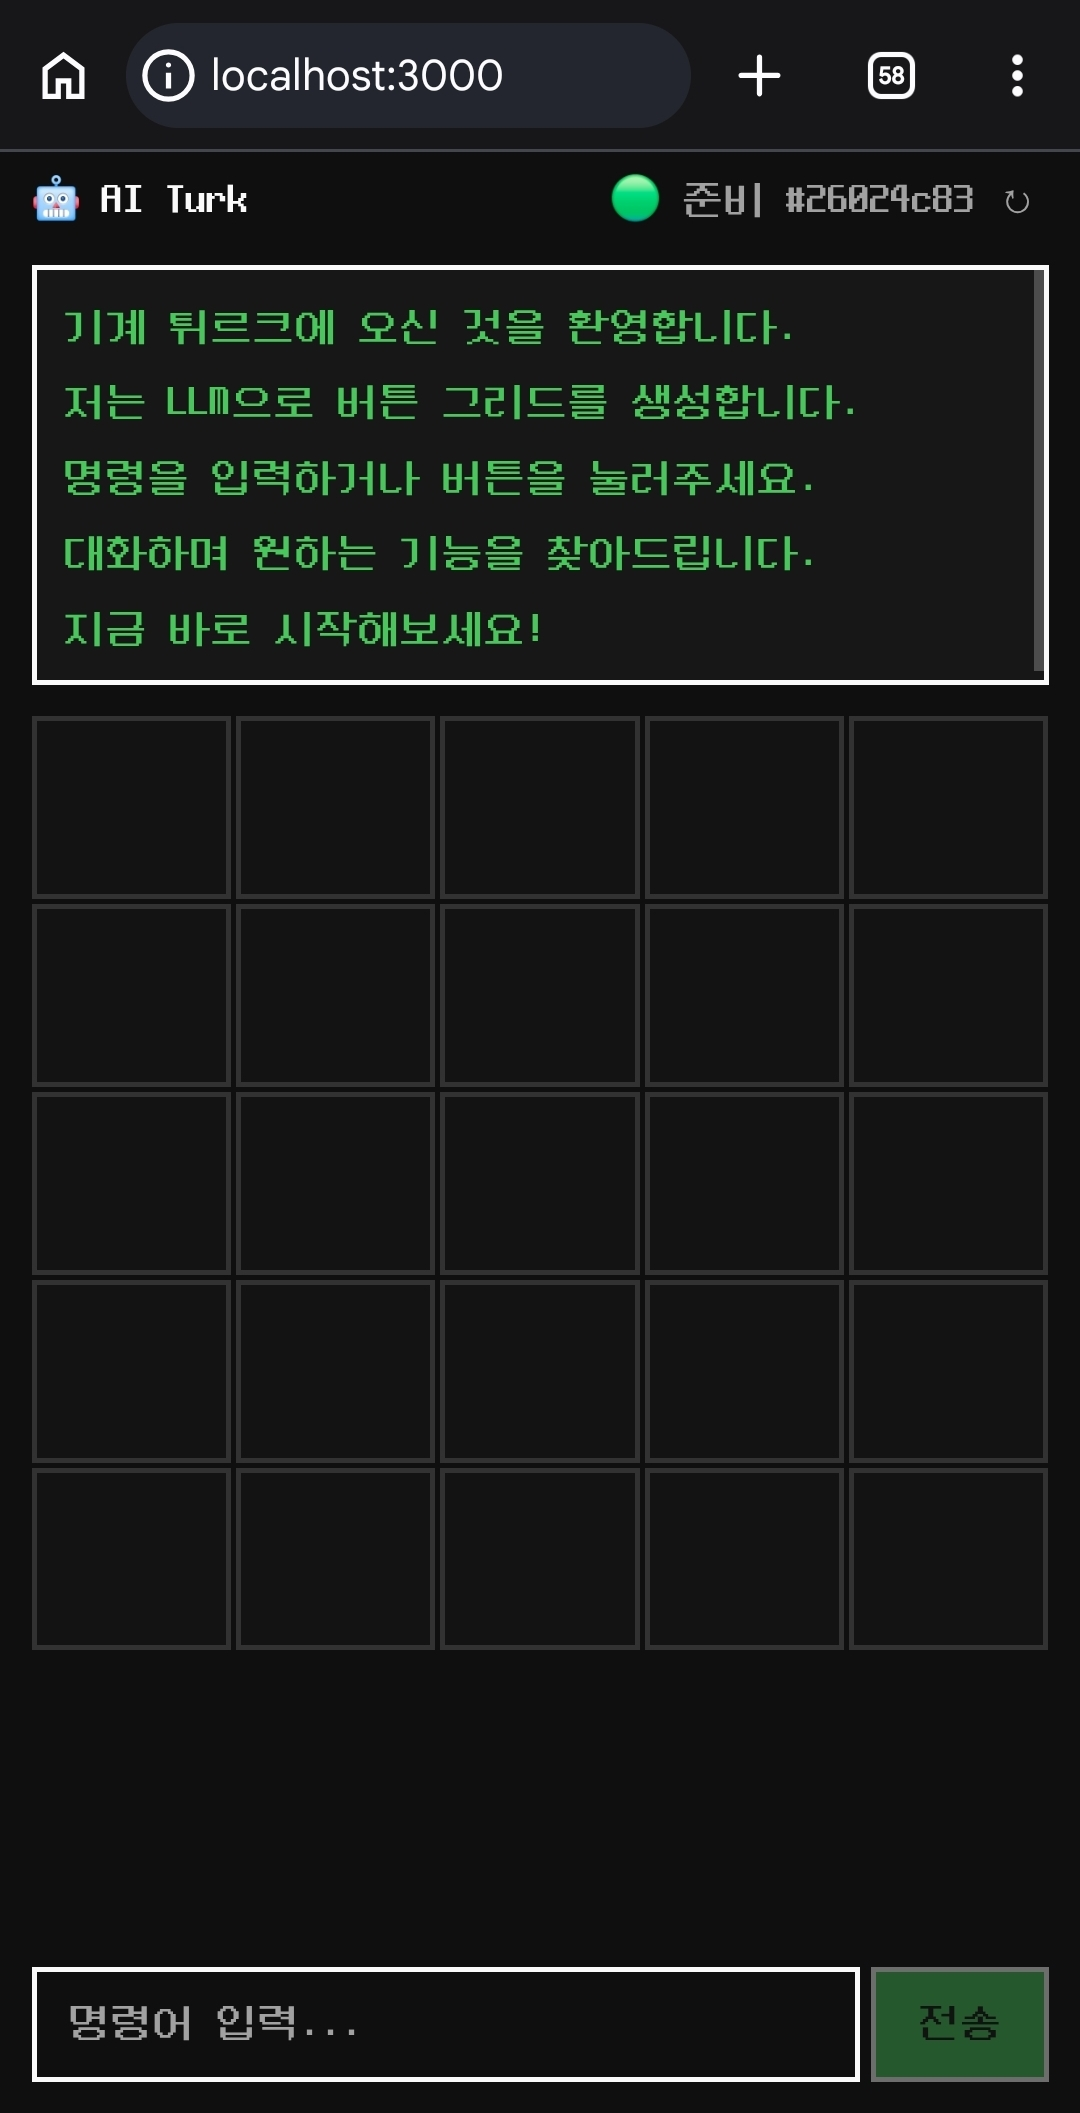
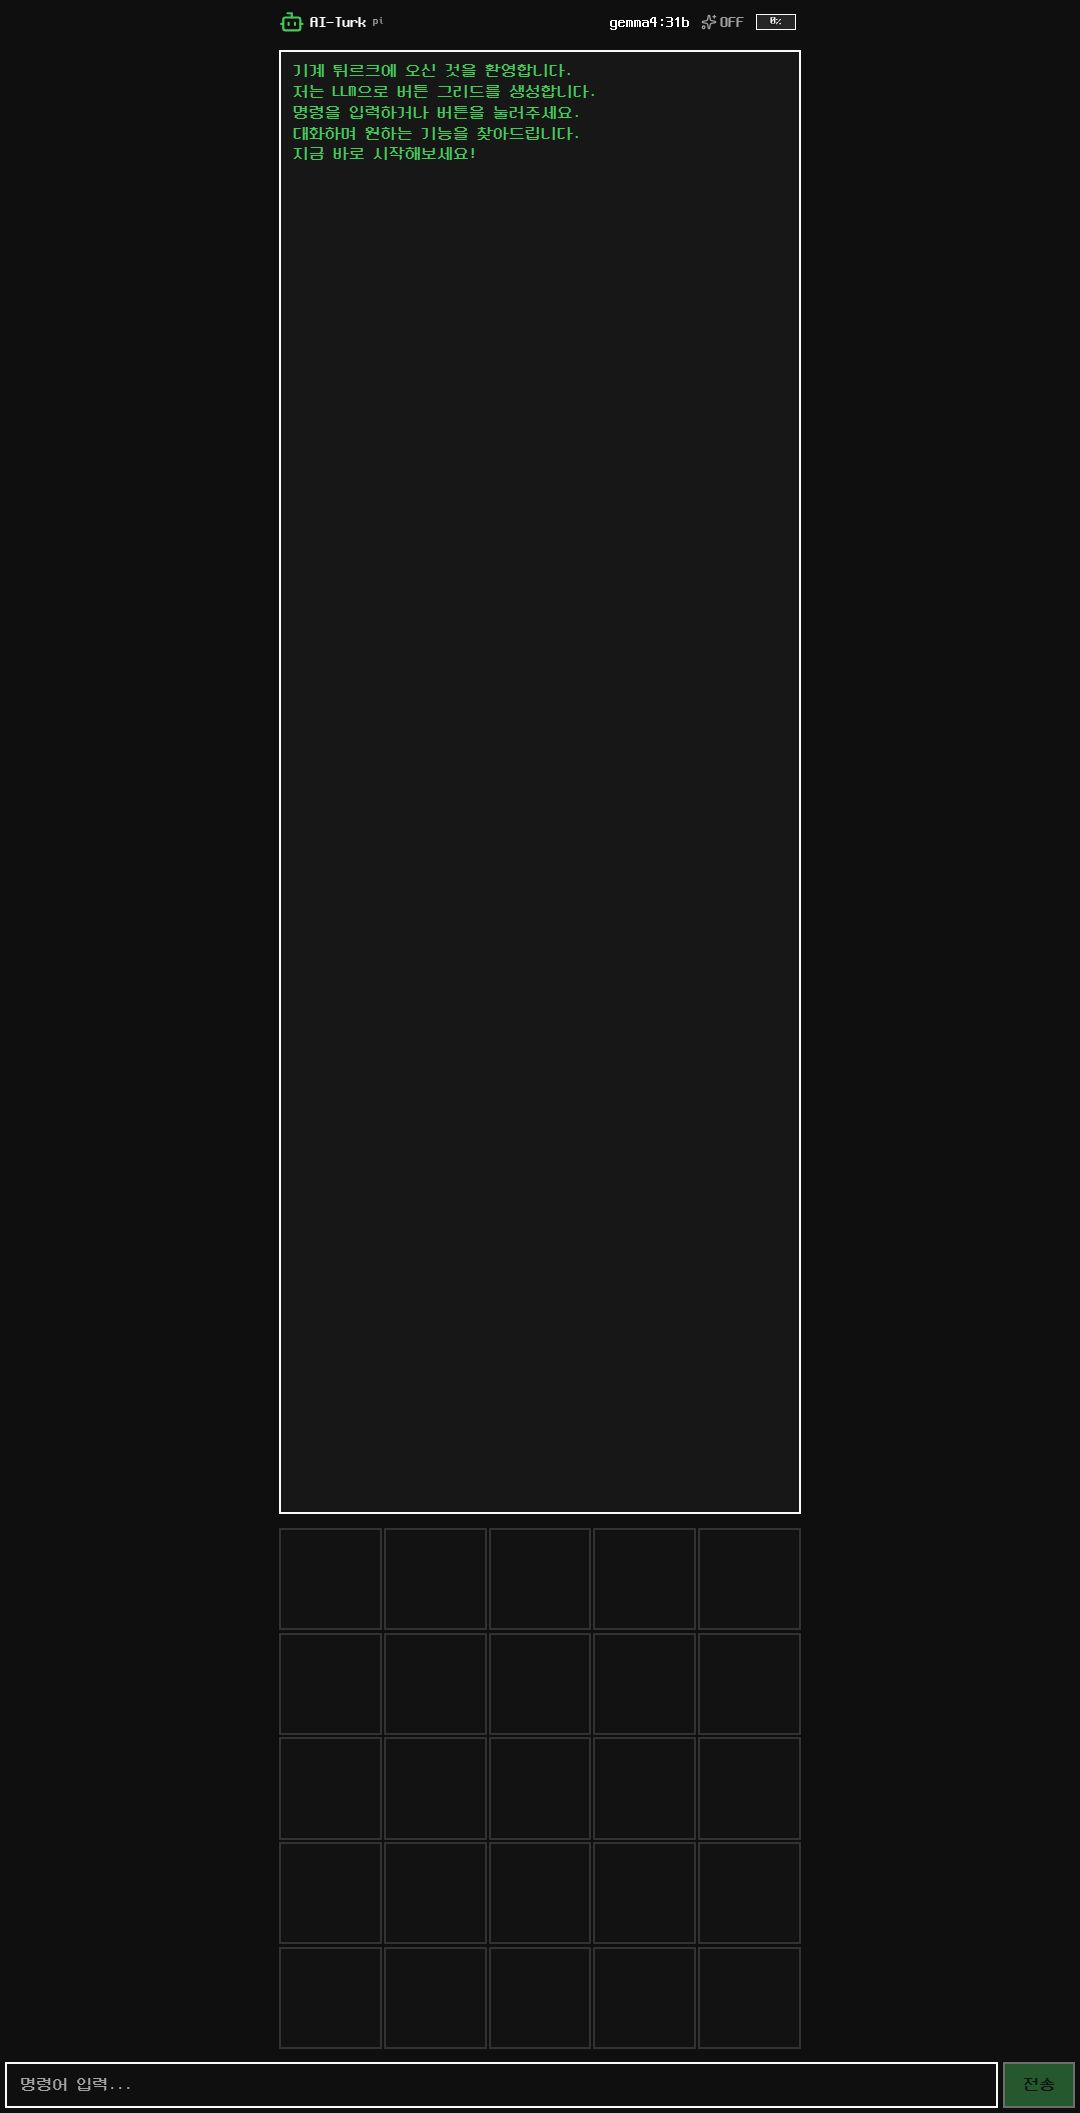
docs: 스크린샷 최신화 + 순수 Anthropic Claude 예시에서 API 키 제거
- docs/screenshot2.jpg 를 chromium 헤드리스 캡처(1080x2113)로 교체
- 순수 Anthropic Claude 예시에서 ANTHROPIC_API_KEY 줄 제거
  (기본은 CLI 가 관리, 필요 시 별도 지정 가능 — 설명은 생략)
- .env.example / README.md / AGENTS.md 일관 적용

Changed region(s): [[0.0, 0.0, 1.0, 0.9995], [0.7028, 0.0, 0.7333, 0.0625], [0.5194, 0.8121, 0.55, 0.8746]]

diff --git a/README.md b/README.md
@@ -60,11 +60,10 @@ turkctl start
 
 `TURK_BACKEND=claude`는 `ANTHROPIC_BASE_URL`이 가리키는 엔드포인트로 Anthropic Messages API 요청을 보냅니다. 두 구성을 지원합니다:
 
-**① 순수 Anthropic Claude (권장)** — Anthropic API 키로 직접 사용
+**① 순수 Anthropic Claude (권장)**
 ```bash
 TURK_BACKEND=claude
 TURK_CLAUDE_MODEL=claude-haiku-4-5    # claude-* 전체 이름
-ANTHROPIC_API_KEY=sk-ant-...        # 또는 ANTHROPIC_AUTH_TOKEN
 # ANTHROPIC_BASE_URL 비우면 기본 api.anthropic.com 사용
 ```
 

diff --git a/AGENTS.md b/AGENTS.md
@@ -71,7 +71,6 @@ turkctl --env .env.8003 start      # 또는 TURK_ENV_FILE=.env.8003 turkctl star
 # .env 에 추가/주석해제
 TURK_BACKEND=claude
 TURK_CLAUDE_MODEL=claude-haiku-4-5      # claude-* 전체이름
-ANTHROPIC_API_KEY=sk-ant-...         # 또는 ANTHROPIC_AUTH_TOKEN
 # ANTHROPIC_BASE_URL 비우면 기본 api.anthropic.com
 ```
 